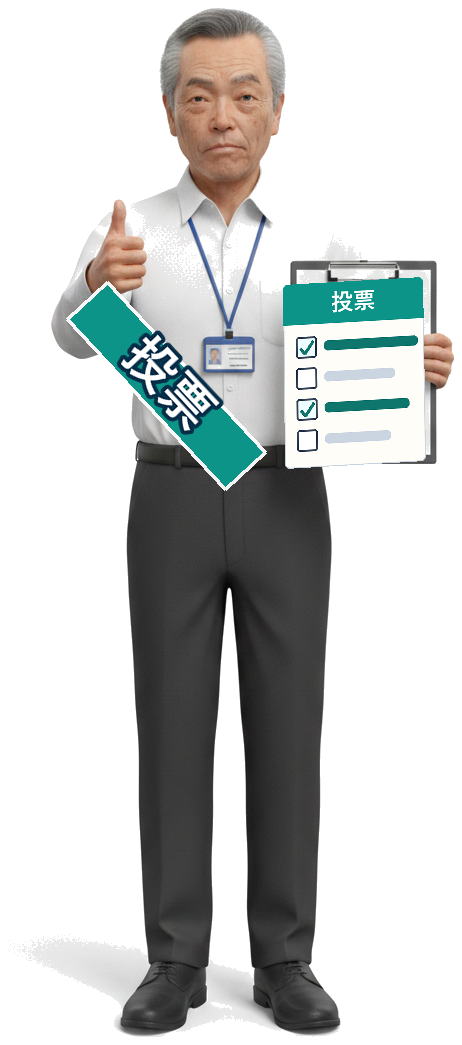
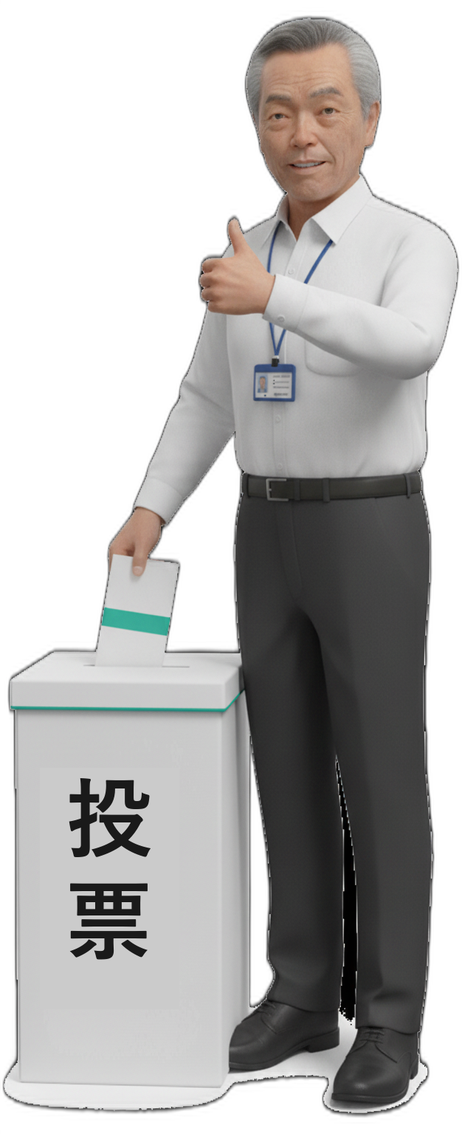
投票したろうを新ポーズに刷新(Gemini生成+背景透過)
会議出太郎と同じ顔のまま、投票箱(「投票」表記)に一票を投じて
こちらを向いて微笑む新ポーズに差し替え。Gemini 2.5 Flash Image で
元キャラ(kaigi_detarou_full.png)を顔参照に img2img 生成 → rembgで
背景透過 → 箱の文字化けを「投票」へ修正 → 462px幅に調整。
vote.html のキャラ画像を更新(?v=20260611b でキャッシュ更新)。

あわせてホームのラベルを「会議でたろう」→「会議出太郎（日程調整）」に統一。

diff --git a/public/vote.html b/public/vote.html
@@ -160,7 +160,7 @@ main { max-width: 960px; margin: 0 auto; padding: 16px; }
       <span class="name">投票したろう</span>
       <span id="detarou-line">よろしゅう。みんなの声、ワシが集計したるさかい。ポチッと投票してや。</span>
     </div>
-    <img class="ava-full" src="/assets/touhyou_shitarou_full.png?v=20260611" alt="投票したろう">
+    <img class="ava-full" src="/assets/touhyou_shitarou_full.png?v=20260611b" alt="投票したろう">
   </div>
   <button class="detarou-restore" id="detarou-restore" type="button" onclick="showDetarou()" aria-label="投票したろうを表示" title="投票したろうを呼ぶ">🗳</button>
 

diff --git a/public/home.html b/public/home.html
@@ -685,7 +685,7 @@
     <a class="card poll" href="/poll.html">
       <span class="badge" id="b-poll" style="display:none;">0</span>
       <div class="icon-pill">📅</div>
-      <div class="label">会議でたろう（日程調整）</div>
+      <div class="label">会議出太郎（日程調整）</div>
       <div class="desc">候補日時を出して、出席者が ○△× で回答。最適日が一目で分かる。</div>
     </a>
     <a class="card meeting" href="/calendar.html" id="card-shared-cal" style="display:none;">
